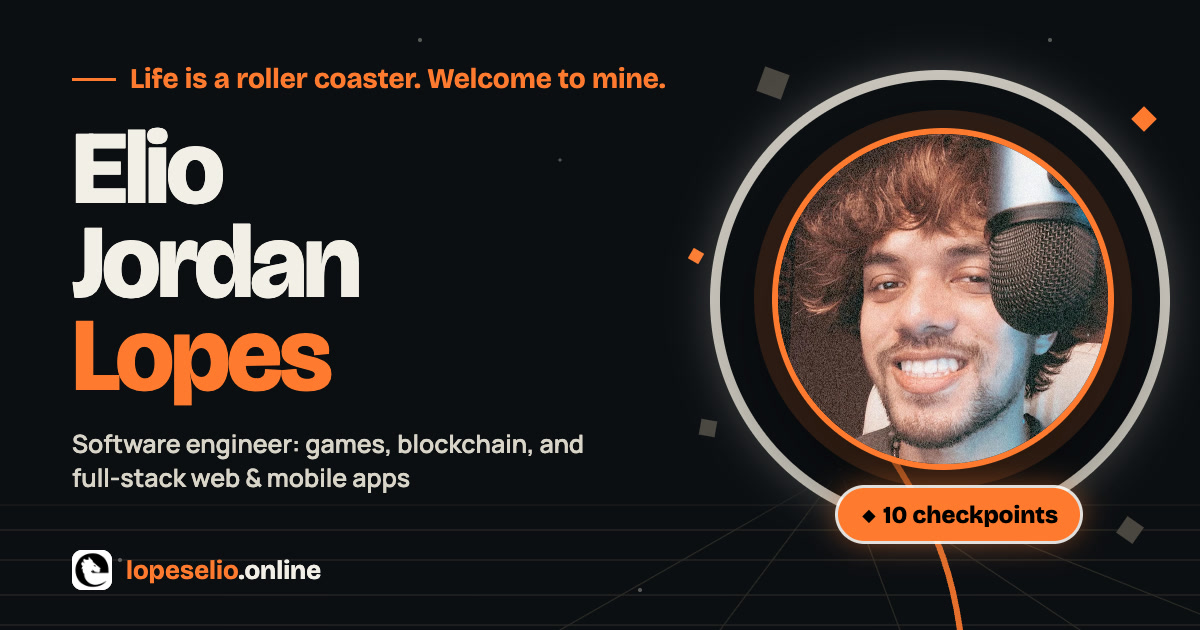
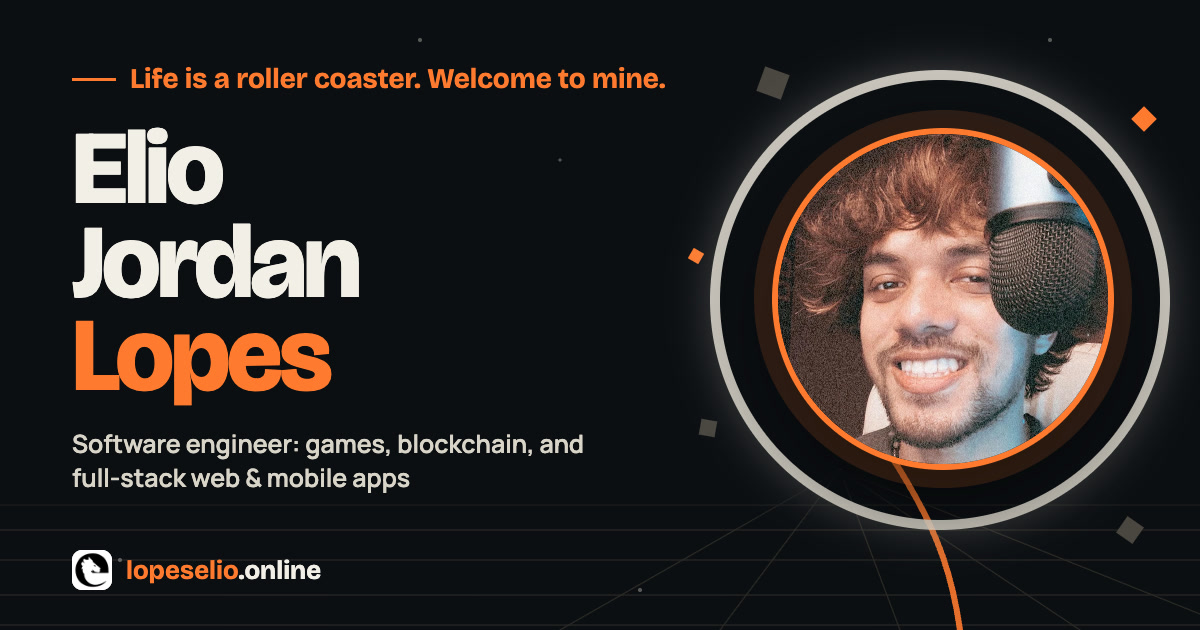
Remove the checkpoints label from the share image

Changed region(s): [[0.6783, 0.754, 0.925, 0.8746]]

diff --git a/docs/og-cover.html b/docs/og-cover.html
@@ -19,8 +19,6 @@
   .portrait { position: absolute; right: 86px; top: 128px; width: 330px; height: 330px; border-radius: 50%;
     object-fit: cover; object-position: 50% 30%; border: 6px solid #ff7a2f; box-shadow: 0 0 0 18px rgba(255,122,47,.14), 0 30px 80px rgba(0,0,0,.6); }
   .ring { position: absolute; right: 30px; top: 70px; width: 440px; height: 440px; border-radius: 50%; border: 10px solid rgba(233,227,216,.85); box-shadow: 0 0 40px rgba(233,227,216,.25); }
-  .chip { position: absolute; right: 120px; top: 488px; padding: 12px 22px; border-radius: 999px; background: #ff7a2f; color: #000;
-    font: 800 24px "Bricolage Grotesque"; box-shadow: 0 0 0 3px rgba(255,255,255,.85), 0 0 30px rgba(255,122,47,.5); }
 </style></head><body><div class="card">
 <svg class="bg" viewBox="0 0 1200 630" aria-hidden="true">
   <defs><linearGradient id="fade" x1="0" y1="0" x2="0" y2="1"><stop offset="0" stop-color="#0c0e13"/><stop offset="1" stop-color="#0c0e13" stop-opacity="0"/></linearGradient></defs>
@@ -36,7 +34,6 @@
 </svg>
 <div class="ring"></div>
 <img class="portrait" src="../public/media/elio-portrait.jpg" alt="">
-<div class="chip">◆ 10 checkpoints</div>
 <div class="text">
   <div class="kicker">Life is a roller coaster. Welcome to mine.</div>
   <h1><span>Elio</span><span>Jordan</span><span>Lopes</span></h1>
